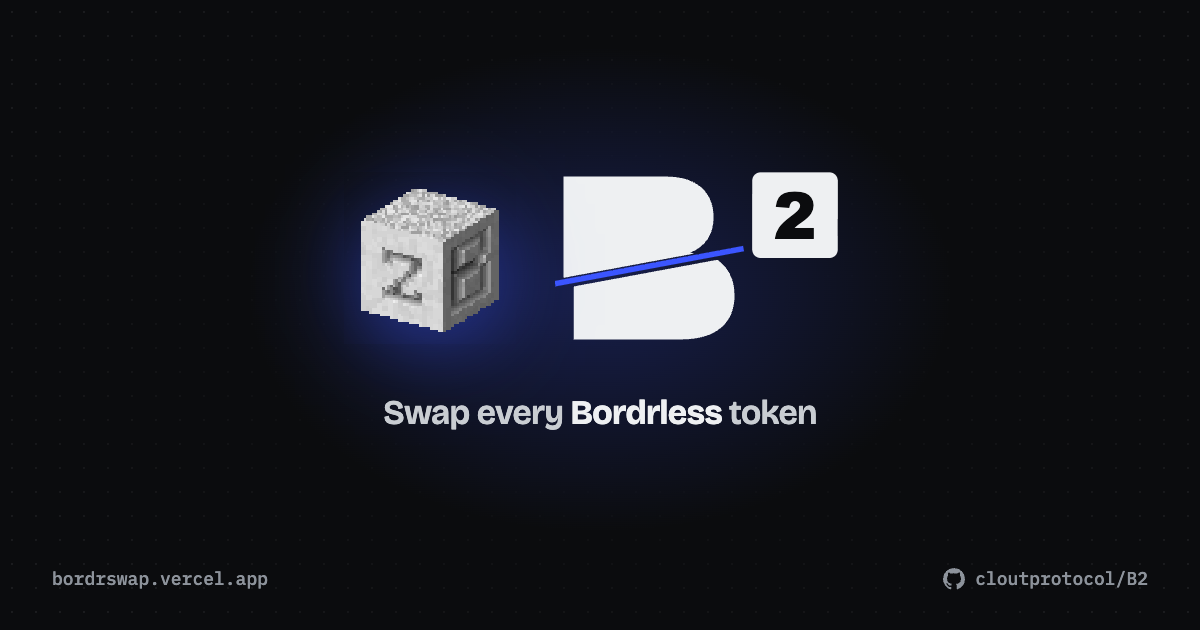
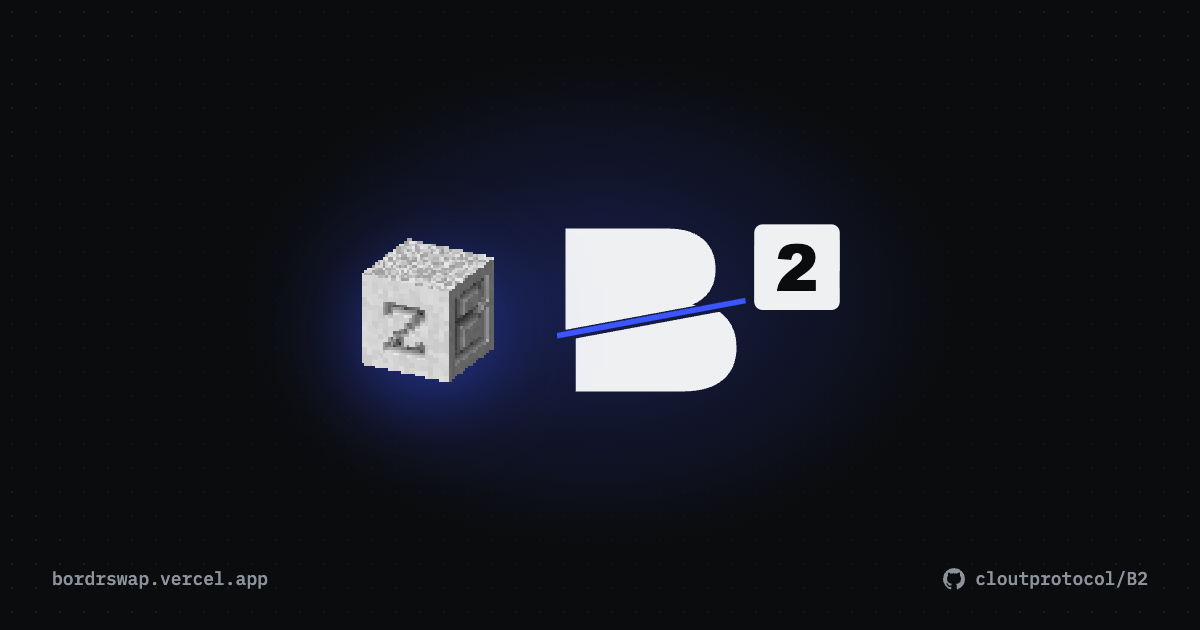
The share card: just the B² mark
og.png is the cube and the B² wordmark, with the domain and the repo in the corners; the tagline is
gone. The tags point at og.png?v=3 so X fetches the new image.

Claude-Session: https://claude.ai/code/session_013yRJukaEh94DENhGaGXhU1

Changed region(s): [[0.2775, 0.2714, 0.7092, 0.6937]]

diff --git a/apps/web/index.html b/apps/web/index.html
@@ -13,15 +13,15 @@
     <meta property="og:url" content="https://bordrswap.vercel.app/" />
     <meta property="og:title" content="B² · Swap every Bordrless token" />
     <meta property="og:description" content="Any token to any token through the best pool, every fee shown before you sign. A live scanner and machine view of every coin. Open source." />
-    <meta property="og:image" content="https://bordrswap.vercel.app/og.png?v=2" />
+    <meta property="og:image" content="https://bordrswap.vercel.app/og.png?v=3" />
     <meta property="og:image:width" content="1200" />
     <meta property="og:image:height" content="630" />
-    <meta property="og:image:alt" content="B²: swap every Bordrless token." />
+    <meta property="og:image:alt" content="B²" />
     <meta name="twitter:card" content="summary_large_image" />
     <meta name="twitter:title" content="B² · Swap every Bordrless token" />
     <meta name="twitter:description" content="Any token to any token through the best pool, every fee shown before you sign. A live scanner and machine view of every coin." />
-    <meta name="twitter:image" content="https://bordrswap.vercel.app/og.png?v=2" />
-    <meta name="twitter:image:alt" content="B²: swap every Bordrless token." />
+    <meta name="twitter:image" content="https://bordrswap.vercel.app/og.png?v=3" />
+    <meta name="twitter:image:alt" content="B²" />
     <link rel="preconnect" href="https://fonts.googleapis.com" />
     <link rel="preconnect" href="https://fonts.gstatic.com" crossorigin />
     <link href="https://fonts.googleapis.com/css2?family=Bricolage+Grotesque:opsz,wdth,wght@12..96,75..100,400..800&family=Geist:wght@400;500;600;700&family=IBM+Plex+Mono:wght@400;500;600&display=swap" rel="stylesheet" />
